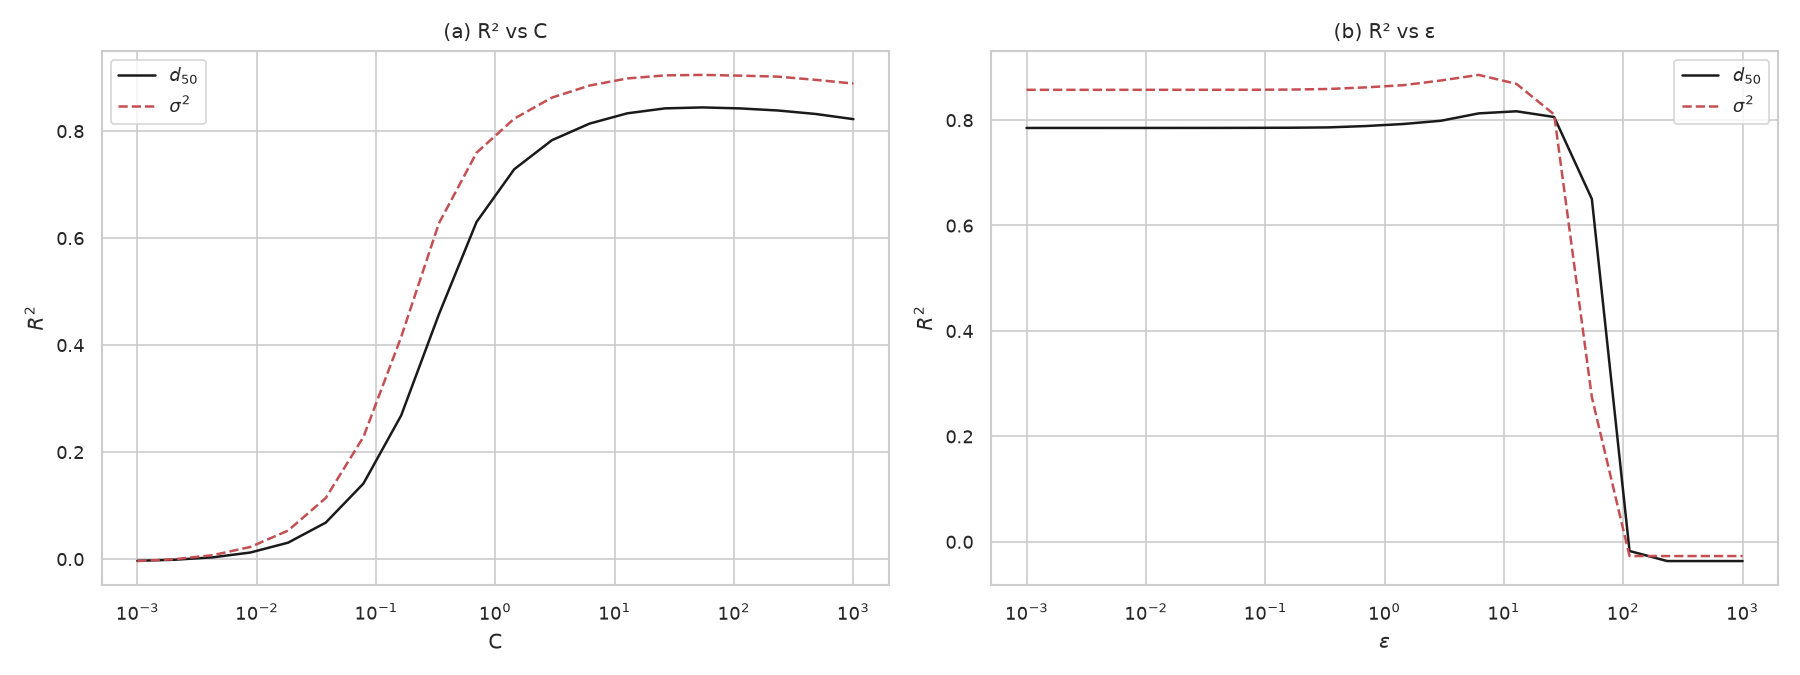
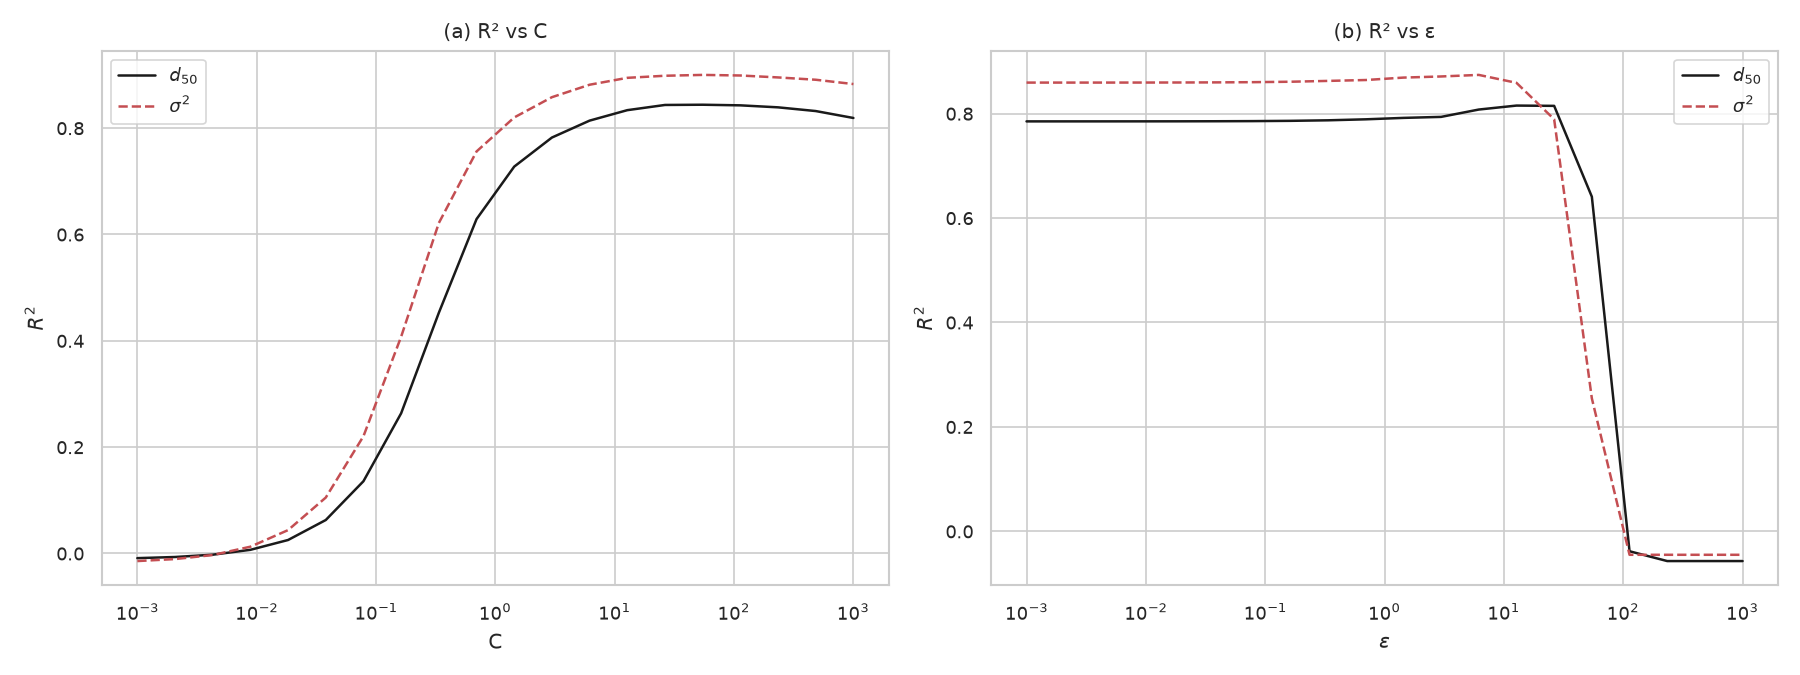
Fixed bugs and updated docs

diff --git a/Models.py b/Models.py
@@ -108,10 +108,10 @@ print("\n--- Training SVR Models ---")
 
 # As per the paper, SVR is trained only on the top-4 important features
 top4 = ['S', 'ub', 'np', 'T']
-Xtr_d50_top4 = pd.DataFrame(X_train, columns=features)[top4]
-Xte_d50_top4 = pd.DataFrame(X_test, columns=features)[top4]
-Xtr_s2_top4  = pd.DataFrame(X_train2, columns=features)[top4]
-Xte_s2_top4  = pd.DataFrame(X_test2, columns=features)[top4]
+Xtr_d50_top4 = X_train[top4]
+Xte_d50_top4 = X_test[top4]
+Xtr_s2_top4  = X_train2[top4]
+Xte_s2_top4  = X_test2[top4]
 
 svr_pipe = Pipeline([
     ('scaler', StandardScaler()),
@@ -160,16 +160,17 @@ r2_d50_vsC, r2_sigma2_vsC = [], []
 r2_d50_vseps, r2_sigma2_vseps = [], []
 
 # Scale the top-4 features manually for this cross-validation sweep
-scaler_top4 = StandardScaler()
-Xtr_d50_scaled = scaler_top4.fit_transform(Xtr_d50_top4)
-Xtr_s2_scaled = scaler_top4.fit_transform(Xtr_s2_top4)
+scaler_d50 = StandardScaler()
+scaler_s2  = StandardScaler()
+Xtr_d50_scaled = scaler_d50.fit_transform(Xtr_d50_top4)
+Xtr_s2_scaled  = scaler_s2.fit_transform(Xtr_s2_top4)
 
 for C in C_values:
     svr_tmp_d50 = SVR(kernel='rbf', C=C, epsilon=eps_fixed, gamma='scale')
     svr_tmp_s2 = SVR(kernel='rbf', C=C, epsilon=eps_fixed, gamma='scale')
 
-    r2_d50 = cross_val_score(svr_tmp_d50, Xtr_d50_scaled, y_train_d50, cv=5, scoring='r2').mean()
-    r2_sigma2 = cross_val_score(svr_tmp_s2, Xtr_s2_scaled, y_train_sigma2, cv=5, scoring='r2').mean()
+    r2_d50 = cross_val_score(svr_tmp_d50, Xtr_d50_scaled, y_train_d50, cv=cv, scoring='r2').mean()
+    r2_sigma2 = cross_val_score(svr_tmp_s2, Xtr_s2_scaled, y_train_sigma2, cv=cv, scoring='r2').mean()
 
     r2_d50_vsC.append(r2_d50)
     r2_sigma2_vsC.append(r2_sigma2)
@@ -178,8 +179,8 @@ for eps in eps_values:
     svr_tmp_d50 = SVR(kernel='rbf', C=C_fixed, epsilon=eps, gamma='scale')
     svr_tmp_s2 = SVR(kernel='rbf', C=C_fixed, epsilon=eps, gamma='scale')
 
-    r2_d50 = cross_val_score(svr_tmp_d50, Xtr_d50_scaled, y_train_d50, cv=5, scoring='r2').mean()
-    r2_sigma2 = cross_val_score(svr_tmp_s2, Xtr_s2_scaled, y_train_sigma2, cv=5, scoring='r2').mean()
+    r2_d50 = cross_val_score(svr_tmp_d50, Xtr_d50_scaled, y_train_d50, cv=cv, scoring='r2').mean()
+    r2_sigma2 = cross_val_score(svr_tmp_s2, Xtr_s2_scaled, y_train_sigma2, cv=cv, scoring='r2').mean()
 
     r2_d50_vseps.append(r2_d50)
     r2_sigma2_vseps.append(r2_sigma2)

diff --git a/README.md b/README.md
@@ -23,7 +23,7 @@ cd Predicting-Sediment-Particle-Size-Distributions
 ```
 
 ### 2. Install Dependencies
-Confirm your software stack using the provided `requirements.txt` file:
+Confirm required libraries are installed using the provided `requirements.txt` file:
 ```bash
 pip install -r requirements.txt
 ```
